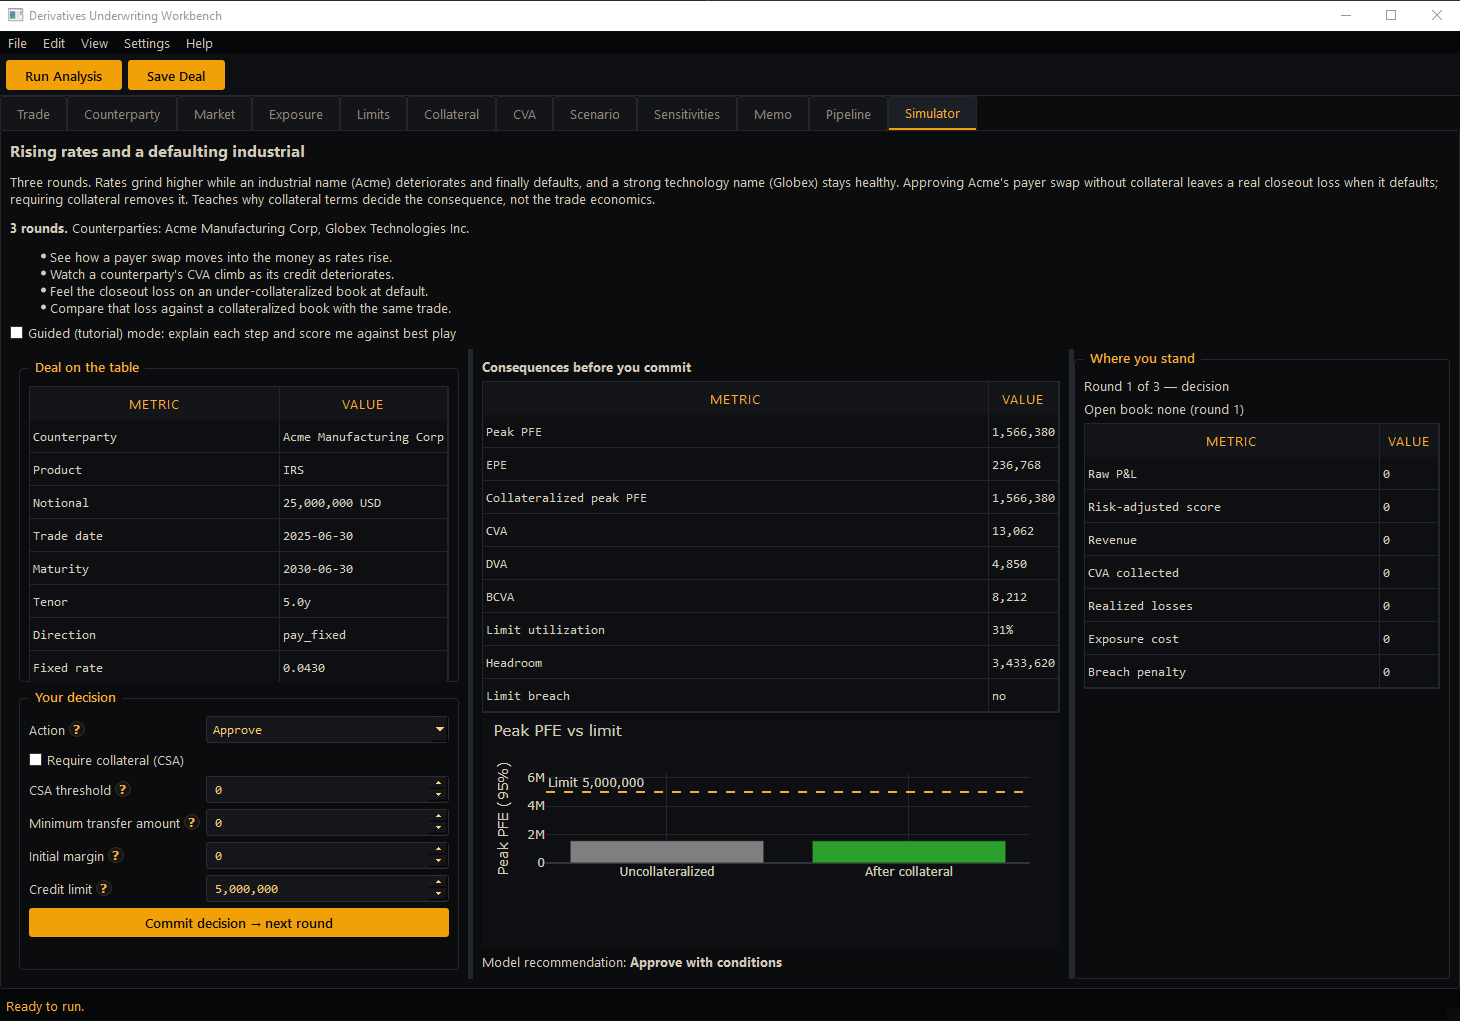
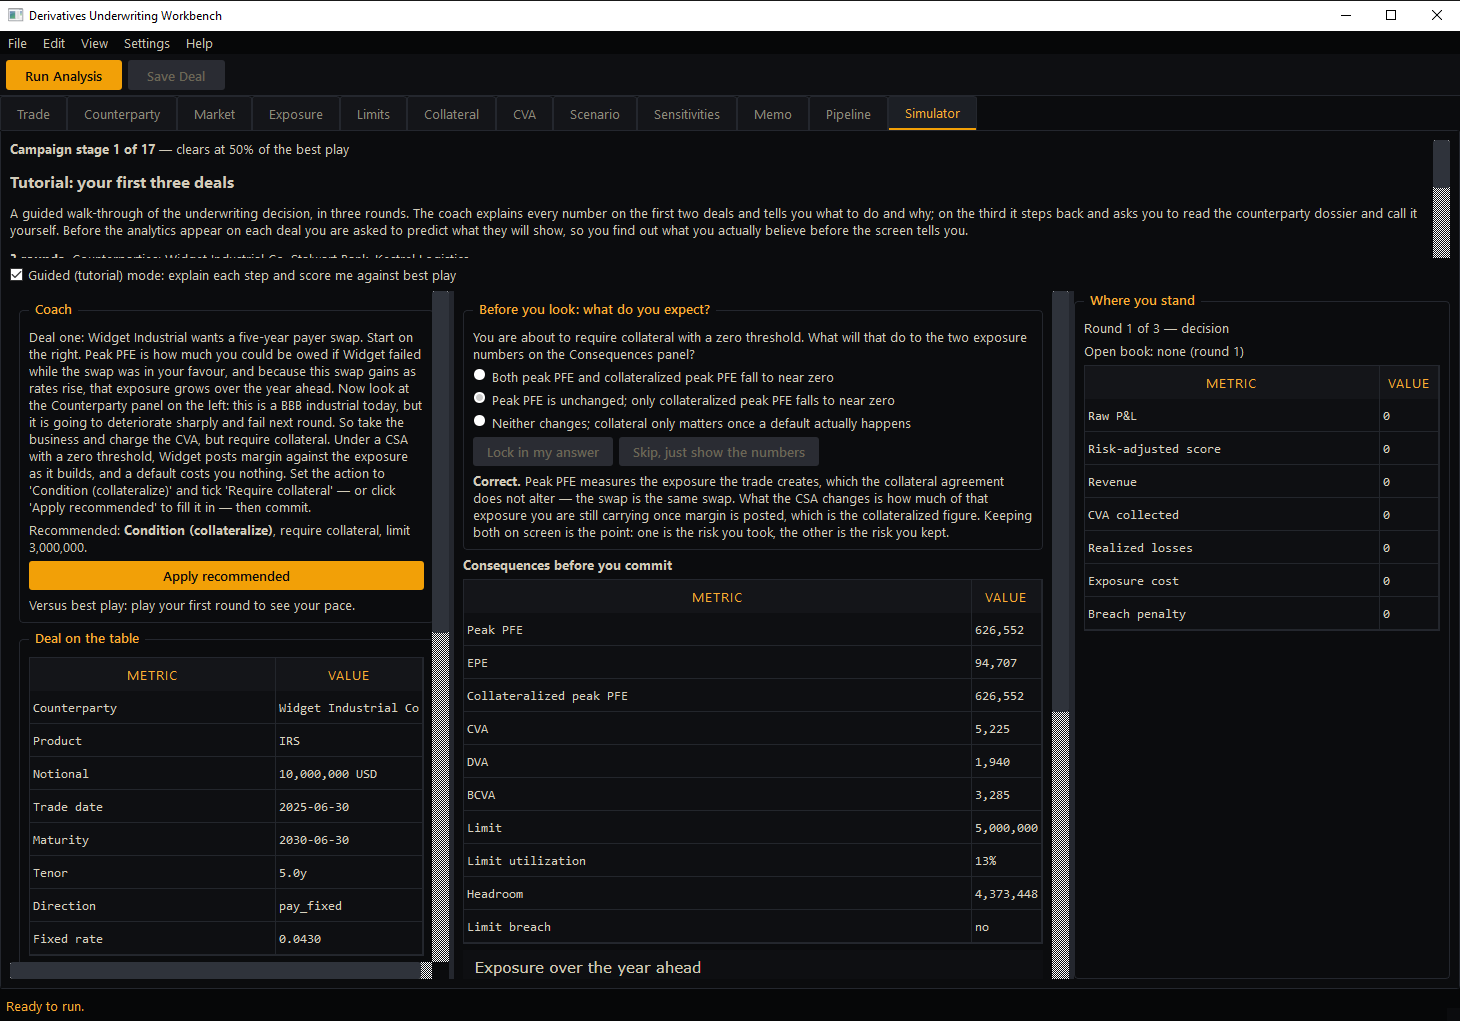
Refresh the Simulator screenshots and fix what taking them exposed
The Simulator screenshot still showed the pre-campaign scenario picker. Replaces
it and adds two more: the 17-stage campaign list, and the collateral stage with
its CSA terms as live dials. All three at 1460x1021, matching the existing set.

Capturing them surfaced four real defects, each fixed here:

- The campaign header read "Thirteen stages" while the list under it said
  "3 of 17 cleared". The count now comes from the campaign, with a test.
- The decision page could not fit a window around a thousand pixels tall. The
  framing blurb sits outside any scroll area and took whatever height it wanted,
  starving everything below: the CSA dials collapsed into unreadable slivers and
  the exposure profile flattened to a strip. The blurb now scrolls past a cap,
  the splitter takes the remaining space, and both columns of the decision page
  scroll the way the prompt and summary pages already did.
- The prediction options are full sentences on QRadioButtons, which do not wrap.
  Their minimum width dragged the consequence column wider than the window and
  pushed the table's VALUE column out of sight. Each option is now a radio button
  beside a wrapping label, clickable on the text as before.
- The scoreboard and the stage list were both squeezed until their text elided
  ("Risk-adjust...", "CVA collec...", and every stage's medal annotation). Both
  now have room.

The exposure profile also keeps a minimum height, so the panel it sits in
[…]

diff --git a/src/duw/ui/tabs/simulator_tab.py b/src/duw/ui/tabs/simulator_tab.py
@@ -41,6 +41,7 @@ from PySide6.QtWidgets import (
     QComboBox,
     QDoubleSpinBox,
     QFormLayout,
+    QFrame,
     QGroupBox,
     QHBoxLayout,
     QLabel,
@@ -101,6 +102,12 @@ PREDICTION_SKIPPED = -1
 #: learner moves the dial.
 DEFAULT_MPOR_DAYS = 10
 
+#: Tallest the scenario framing blurb may grow before it starts scrolling. Set
+#: so the deal, its controls and the consequence panel stay usable in a window
+#: around a thousand pixels tall, which is the size the README screenshots use
+#: and a realistic laptop.
+FRAMING_MAX_HEIGHT = 210
+
 _ACTION_LABELS: tuple[tuple[str, DecisionAction], ...] = (
     ("Approve", DecisionAction.APPROVE),
     ("Condition (collateralize)", DecisionAction.CONDITION),
@@ -147,6 +154,22 @@ def _signed(x: float | None, decimals: int = 1) -> str:
     if x is None or (isinstance(x, float) and math.isnan(x)):
         return "—"
     return f"{x:+,.{decimals}f}"
+
+
+def _scrolled(inner: QWidget) -> QScrollArea:
+    """Wrap ``inner`` in a vertically-scrolling, frameless area.
+
+    Keeps a column's widgets at their natural size when the window is too short
+    to show them all, instead of letting the layout compress them into slivers.
+    """
+    area = QScrollArea()
+    area.setWidgetResizable(True)
+    area.setFrameShape(QFrame.Shape.NoFrame)
+    # Vertical scrolling is the point, but the horizontal bar stays available:
+    # clipping content outright is worse than letting the learner reach it.
+    area.setHorizontalScrollBarPolicy(Qt.ScrollBarPolicy.ScrollBarAsNeeded)
+    area.setWidget(inner)
+    return area
 
 
 def _collateral_rows(
@@ -267,10 +290,26 @@ class SimulatorTab(QWidget):
     def _build_ui(self) -> None:
         outer = QVBoxLayout(self)
 
+        # The framing blurb is long on some stages (title, description, learning
+        # objectives and the guided intro). Left to size itself it takes whatever
+        # height it wants and starves the decision controls below — at a 1000px
+        # window the CSA dials collapsed to unreadable slivers. So it lives in a
+        # scroll area capped at FRAMING_MAX_HEIGHT: short blurbs still render in
+        # full, long ones scroll, and the deal below always gets its room.
         self.framing = QLabel()
         self.framing.setWordWrap(True)
         self.framing.setTextFormat(Qt.TextFormat.RichText)
-        outer.addWidget(self.framing)
+        self.framing.setAlignment(
+            Qt.AlignmentFlag.AlignTop | Qt.AlignmentFlag.AlignLeft
+        )
+        self._framing_scroll = QScrollArea()
+        self._framing_scroll.setWidgetResizable(True)
+        self._framing_scroll.setFrameShape(QFrame.Shape.NoFrame)
+        self._framing_scroll.setHorizontalScrollBarPolicy(
+            Qt.ScrollBarPolicy.ScrollBarAlwaysOff
+        )
+        self._framing_scroll.setWidget(self.framing)
+        outer.addWidget(self._framing_scroll)
 
         self.tutorial_check = QCheckBox(
             "Guided (tutorial) mode: explain each step and score me against best play"
@@ -293,7 +332,28 @@ class SimulatorTab(QWidget):
         splitter.addWidget(self.stack)
         splitter.addWidget(self._build_scoreboard())
         splitter.setSizes([900, 320])
-        outer.addWidget(splitter)
+        # Stretch of 1: every pixel not needed by the framing blurb and the mode
+        # checkbox goes to the deal, rather than being shared with the blurb.
+        outer.addWidget(splitter, 1)
+
+    def _set_framing(self, html: str) -> None:
+        """Set the framing blurb and size its scroll area to fit, up to the cap.
+
+        Sizing to content keeps a short blurb (the campaign page's two lines)
+        from reserving the full cap's worth of blank space, while a long one
+        stops at :data:`FRAMING_MAX_HEIGHT` and scrolls.
+        """
+        self.framing.setText(html)
+        width = self._framing_scroll.viewport().width() or self.width() or 900
+        needed = self.framing.heightForWidth(width)
+        if needed <= 0:
+            needed = self.framing.sizeHint().height()
+        self._framing_scroll.setMaximumHeight(min(needed + 8, FRAMING_MAX_HEIGHT))
+
+    def resizeEvent(self, event) -> None:  # noqa: N802 - Qt override
+        """Re-fit the framing blurb when the width changes its wrapped height."""
+        super().resizeEvent(event)
+        self._set_framing(self.framing.text())
 
     def _build_campaign_page(self) -> QWidget:
         """The stage list: what is cleared, what is open, and what comes next."""
@@ -327,7 +387,10 @@ class SimulatorTab(QWidget):
         self.play_stage_btn.clicked.connect(self.play_selected_stage)
         detail.addWidget(self.play_stage_btn)
         body.addWidget(detail_holder)
-        body.setSizes([340, 520])
+        # Wide enough for the longest stage title plus its medal annotation
+        # ("17. Capstone: the crunch — Gold, 100% of best play"); at 340 the
+        # annotation was clipped and the list grew a horizontal scrollbar.
+        body.setSizes([430, 430])
         layout.addWidget(body, 1)
 
         controls = QHBoxLayout()
@@ -498,6 +561,8 @@ class SimulatorTab(QWidget):
         self.prediction_buttons = QButtonGroup(self)
         self.prediction_buttons.setExclusive(True)
         self._prediction_options: list[QRadioButton] = []
+        #: Row widgets holding each radio button and its wrapping label.
+        self._prediction_rows: list[QWidget] = []
         self._prediction_holder = QWidget()
         self._prediction_holder_layout = QVBoxLayout(self._prediction_holder)
         self._prediction_holder_layout.setContentsMargins(0, 0, 0, 0)
@@ -524,14 +589,24 @@ class SimulatorTab(QWidget):
         self.consequence_table = MetricsTable()
         cons_layout.addWidget(self.consequence_table)
         self.consequence_view = PlotlyView()
+        # The profile is the point of the panel — how the exposure is shaped
+        # over time, not just how big it peaks — so it keeps a legible height
+        # and the column scrolls rather than flattening it to a strip.
+        self.consequence_view.setMinimumHeight(260)
         cons_layout.addWidget(self.consequence_view, 1)
         self.recommendation_label = QLabel("")
         self.recommendation_label.setWordWrap(True)
         cons_layout.addWidget(self.recommendation_label)
 
-        page.addWidget(controls)
-        page.addWidget(consequences)
-        page.setSizes([380, 560])
+        # Both columns scroll, as the prompt and summary pages already do. The
+        # decision page carries the most content of any page — coach, deal,
+        # credit dossier and five decision controls on the left; prediction,
+        # a dozen consequence rows and the exposure profile on the right — and
+        # without scrolling a window around a thousand pixels tall squeezed the
+        # CSA dials down to unreadable slivers and flattened the chart.
+        page.addWidget(_scrolled(controls))
+        page.addWidget(_scrolled(consequences))
+        page.setSizes([400, 560])
         return page
 
     def _build_default_page(self) -> QWidget:
@@ -671,6 +746,10 @@ class SimulatorTab(QWidget):
 
     def _build_scoreboard(self) -> QWidget:
         box = QGroupBox("Where you stand")
+        # Without a floor the splitter squeezed this column until "Risk-adjusted
+        # score" and "CVA collected" wrapped into ellipses, which is the one
+        # place the learner reads how they are doing.
+        box.setMinimumWidth(260)
         layout = QVBoxLayout(box)
         self.round_label = QLabel("No scenario loaded.")
         self.round_label.setWordWrap(True)
@@ -716,12 +795,14 @@ class SimulatorTab(QWidget):
         """Show the stage list, refreshed from the current progress."""
         self._render_campaign()
         self.stack.setCurrentWidget(self._campaign_page)
-        self.framing.setText(
+        # The count comes from the campaign itself: spelling it out in the copy
+        # silently goes stale the moment a stage is added.
+        self._set_framing(
             "<h3>Underwriting campaign</h3>"
-            "<p>Thirteen stages, in teaching order. Each one is a scripted book "
-            "you underwrite deal by deal, and each opens once you have cleared "
-            "the one before it. Start at the top: the first stage is a guided "
-            "tutorial.</p>"
+            f"<p>{len(self.campaign)} stages, in teaching order. Each one is a "
+            "scripted book you underwrite deal by deal, and each opens once you "
+            "have cleared the one before it. Start at the top: the first stage "
+            "is a guided tutorial.</p>"
         )
 
     def _render_campaign(self) -> None:
@@ -1047,7 +1128,7 @@ class SimulatorTab(QWidget):
             try:
                 self.load_from_path(path)
             except Exception as exc:  # noqa: BLE001 - surface load errors gently
-                self.framing.setText(f"Could not load scenario: {exc}")
+                self._set_framing(f"Could not load scenario: {exc}")
 
     @staticmethod
     def _build_steps(scenario: Scenario) -> tuple[PlayStep, ...]:
@@ -1136,8 +1217,10 @@ class SimulatorTab(QWidget):
         """Show the deal's prediction question, or nothing if it has none."""
         for button in self._prediction_options:
             self.prediction_buttons.removeButton(button)
-            button.setParent(None)
+        for row in self._prediction_rows:
+            row.setParent(None)
         self._prediction_options = []
+        self._prediction_rows = []
         self.prediction_feedback.setVisible(False)
         self.prediction_feedback.setText("")
 
@@ -1148,11 +1231,27 @@ class SimulatorTab(QWidget):
         self.prediction_group.setVisible(True)
         self.prediction_prompt.setText(prediction.prompt)
         for i, option in enumerate(prediction.options):
-            button = QRadioButton(option)
+            # A QRadioButton will not wrap its own label, and these options run
+            # to a full sentence: left on the button the text set a minimum
+            # width that dragged the whole consequence column wider than the
+            # window and pushed the table's VALUE column out of sight. So the
+            # button carries no text and a wrapping label sits beside it.
+            row = QWidget()
+            row_layout = QHBoxLayout(row)
+            row_layout.setContentsMargins(0, 0, 0, 0)
+            button = QRadioButton()
             button.setEnabled(True)
+            row_layout.addWidget(button, 0, Qt.AlignmentFlag.AlignTop)
+            label = QLabel(option)
+            label.setWordWrap(True)
+            # Clicking the text should select the option, as it would on a
+            # normal radio button.
+            label.mousePressEvent = lambda _e, b=button: b.setChecked(True)
+            row_layout.addWidget(label, 1)
             self.prediction_buttons.addButton(button, i)
-            self._prediction_holder_layout.addWidget(button)
+            self._prediction_holder_layout.addWidget(row)
             self._prediction_options.append(button)
+            self._prediction_rows.append(row)
         answered = deal.trade_id in self._predictions
         self.answer_btn.setEnabled(not answered)
         self.skip_prediction_btn.setEnabled(not answered)
@@ -1909,7 +2008,7 @@ class SimulatorTab(QWidget):
                 f"<p><b>Campaign stage {idx} of {len(self.campaign)}</b> — "
                 f"clears at {stage.pass_ratio:.0%} of the best play</p>" + header
             )
-        self.framing.setText(
+        self._set_framing(
             header
             + f"<p>{meta.description}</p>"
             + f"<p><b>{meta.n_rounds} rounds.</b> Counterparties: {names}.</p>"
@@ -1919,7 +2018,7 @@ class SimulatorTab(QWidget):
 
     def _show_prompt(self) -> None:
         self.stack.setCurrentWidget(self._prompt_page)
-        self.framing.setText(
+        self._set_framing(
             "<h3>Underwriting simulator</h3>"
             "<p>Load a scenario to begin. The bundled sample walks through rising "
             "rates and a counterparty that deteriorates and defaults.</p>"

diff --git a/tests/test_simulator_campaign.py b/tests/test_simulator_campaign.py
@@ -394,3 +394,16 @@ def test_decision_action_enum_is_reachable_from_the_controls(qapp, tmp_path) -> 
     _settled(tab)
     tab.action_combo.setCurrentIndex(1)
     assert tab._current_action() == DecisionAction.CONDITION
+
+
+def test_campaign_blurb_states_the_real_stage_count(qapp, tmp_path) -> None:
+    """The header count must come from the campaign, not from prose.
+
+    It read "Thirteen stages" for a while after the campaign grew to 17, which
+    the stage list right underneath it flatly contradicted.
+    """
+    tab = SimulatorTab(progress_store=ProgressStore(tmp_path / "campaign.json"))
+    tab.show_campaign()
+    blurb = tab.framing.text()
+    assert f"{len(CAMPAIGN)} stages" in blurb
+    assert "Thirteen" not in blurb

diff --git a/README.md b/README.md
@@ -228,7 +228,20 @@ scores you against the scenario's own best-play benchmark, grades you on four
 underwriting skills, and reads back round by round where you gained or lost
 ground.
 
-![Simulator tab](docs/images/simulator.png)
+The campaign, with the stages cleared so far and the one open next:
+
+![Simulator campaign](docs/images/simulator-campaign.png)
+
+A guided stage mid-round: the coach explains the deal, the prediction has been
+answered, and the consequences are revealed alongside the credit dossier.
+
+![Simulator guided decision](docs/images/simulator.png)
+
+The collateral stage, showing the CSA terms as live dials — move the threshold,
+initial margin or margin period of risk and the exposure numbers and profile
+respond before you commit.
+
+![Simulator collateral terms](docs/images/simulator-collateral.png)
 
 ---
 
